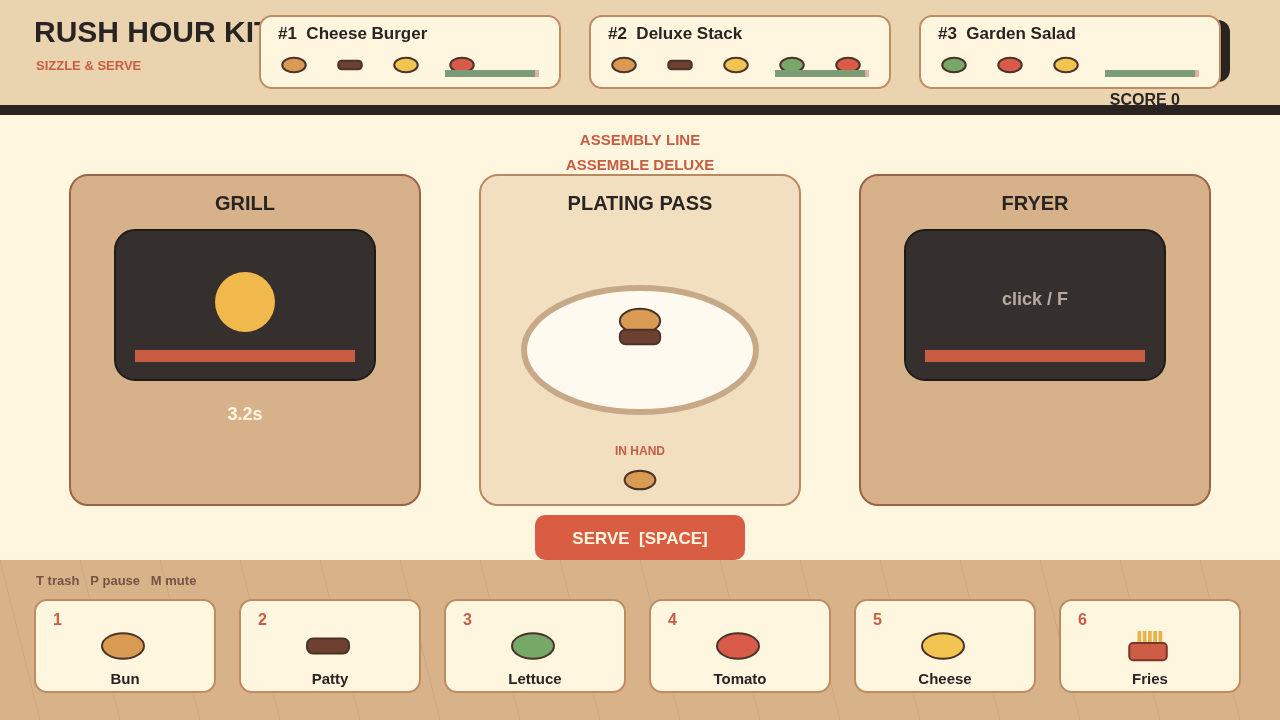
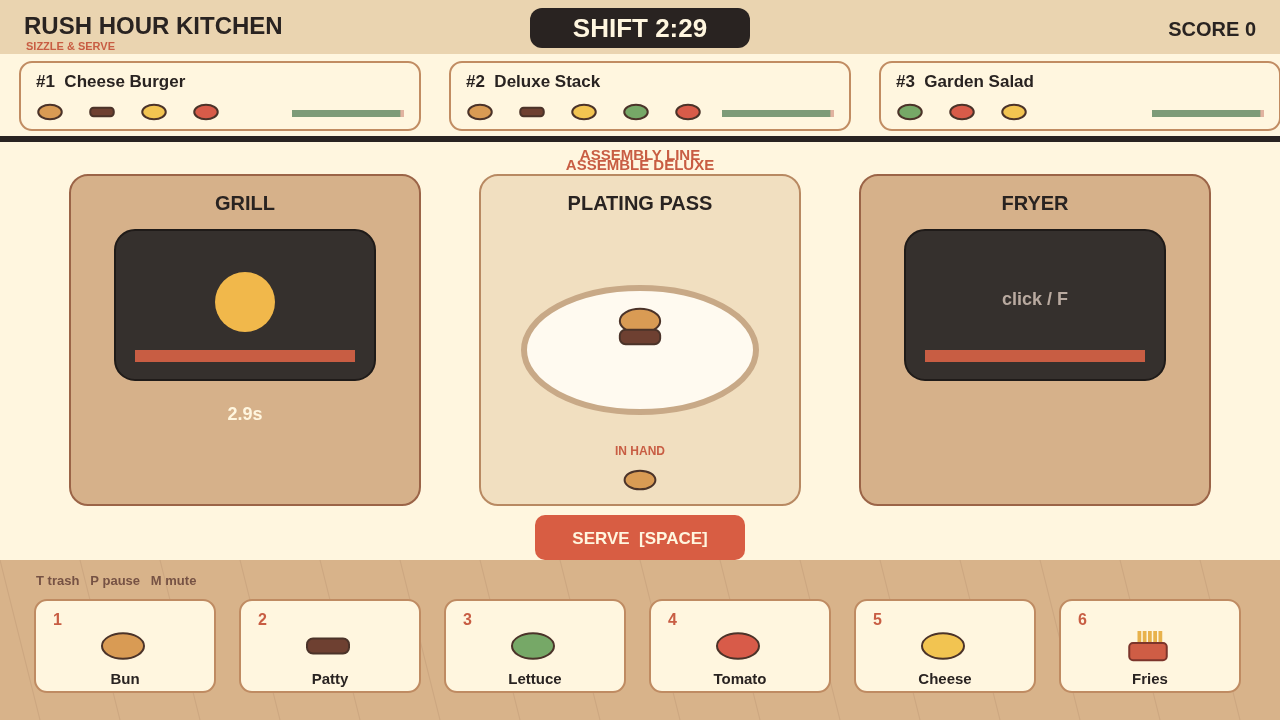
Fix header layout: title, shift timer and score above order board

Changed region(s): [[0.0, 0.0, 1.0, 0.2444]]

diff --git a/game/src/render.js b/game/src/render.js
@@ -2,8 +2,8 @@ import {COLORS,INGREDIENTS} from './config.js';
 function rr(c,x,y,w,h,r,fill,stroke){c.beginPath();c.roundRect(x,y,w,h,r);if(fill){c.fillStyle=fill;c.fill()}if(stroke){c.strokeStyle=stroke;c.lineWidth=2;c.stroke()}}
 function text(c,s,x,y,size=18,color=COLORS.charcoal,weight='600',align='left'){c.font=`${weight} ${size}px Arial`;c.fillStyle=color;c.textAlign=align;c.fillText(s,x,y)}
 function ingredient(c,name,x,y,scale=1){const col={Bun:'#d99b54',Patty:'#6e4031',Lettuce:'#76a867',Tomato:'#d85b49',Cheese:'#f2c451',Fries:'#e8b24c'}[name.replace('Grilled ','')]||'#ddd';c.fillStyle=col;c.strokeStyle='#4b3329';c.lineWidth=2;if(name.includes('Patty'))rr(c,x-28*scale,y-10*scale,56*scale,20*scale,8*scale,col,'#4b3329');else if(name==='Fries'){for(let i=-2;i<=2;i++)c.fillRect(x+i*7*scale,y-20*scale,5*scale,30*scale);rr(c,x-25*scale,y-4*scale,50*scale,23*scale,5*scale,'#cf5d45','#7c352b')}else{c.beginPath();c.ellipse(x,y,28*scale,17*scale,0,0,Math.PI*2);c.fill();c.stroke()}}
-export function render(c,w){c.save();c.clearRect(0,0,1280,720);c.fillStyle=COLORS.cream;c.fillRect(0,0,1280,720);c.fillStyle='#ead4b0';c.fillRect(0,0,1280,105);c.fillStyle=COLORS.charcoal;c.fillRect(0,105,1280,10);c.fillStyle='#d8b38a';c.fillRect(0,560,1280,160);for(let x=0;x<1280;x+=80){c.strokeStyle='rgba(100,60,40,.1)';c.beginPath();c.moveTo(x,560);c.lineTo(x+40,720);c.stroke()}drawBoard(c,w);drawKitchen(c,w);if(w.screen==='title')screenTitle(c);if(w.screen==='win'||w.screen==='lose')screenEnd(c,w);if(w.paused){c.fillStyle='rgba(41,35,33,.75)';c.fillRect(0,0,1280,720);text(c,'PAUSED',640,355,52,COLORS.cream,'800','center');text(c,'Press P to return to service',640,395,20,COLORS.paper,'600','center')}c.restore()}
-function drawBoard(c,w){text(c,'RUSH HOUR KITCHEN',34,42,30,COLORS.charcoal,'800');text(c,'SIZZLE & SERVE',36,70,13,COLORS.terracotta,'800');rr(c,930,20,300,62,12,COLORS.charcoal);text(c,`${Math.ceil(w.time)}s`,1080,60,32,COLORS.cream,'800','center');text(c,`SCORE ${w.score}`,1180,105,16,COLORS.charcoal,'800','right');for(let i=0;i<3;i++){const x=260+i*330,o=w.orders[i];rr(c,x,16,300,72,12,o?COLORS.cream:'#d5c6aa','#c18c62');if(!o){text(c,'OPEN COUNTER',x+18,49,16,'#8f8170','700');continue}text(c,`#${i+1}  ${o.recipe.name}`,x+18,39,17,COLORS.charcoal,'800');o.recipe.items.forEach((it,j)=>ingredient(c,it,x+34+j*56,65,.42));c.fillStyle='#e1b3a0';c.fillRect(x+185,70,94,7);c.fillStyle=o.age>20?COLORS.red:COLORS.sage;c.fillRect(x+185,70,94*Math.max(0,1-o.age/34),7)}}
-function drawKitchen(c,w){text(c,'ASSEMBLY LINE',640,145,15,COLORS.terracotta,'800','center');rr(c,70,175,350,330,18,'#d6b18a','#9b6447');rr(c,860,175,350,330,18,'#d6b18a','#9b6447');text(c,'GRILL',245,210,20,COLORS.charcoal,'800','center');text(c,'FRYER',1035,210,20,COLORS.charcoal,'800','center');rr(c,115,230,260,150,20,'#35302d','#1f1b19');rr(c,905,230,260,150,20,'#35302d','#1f1b19');c.fillStyle='#c85d43';c.fillRect(135,350,220,12);c.fillRect(925,350,220,12);if(w.grill){c.fillStyle='#f1b84b';c.beginPath();c.arc(245,302,30,0,Math.PI*2);c.fill();text(c,w.grill.status==='burnt'?'BURN!':`${Math.min(6,w.grill.t).toFixed(1)}s`,245,420,18,w.grill.status==='burnt'?COLORS.red:COLORS.cream,'800','center')}else text(c,'click / G',245,305,18,'#b9aaa0','700','center');if(w.fryer){ingredient(c,'Fries',1035,300,.9);text(c,w.fryer.status==='burnt'?'BURN!':`${Math.min(6,w.fryer.t).toFixed(1)}s`,1035,420,18,w.fryer.status==='burnt'?COLORS.red:COLORS.cream,'800','center')}else text(c,'click / F',1035,305,18,'#b9aaa0','700','center');rr(c,480,175,320,330,18,'#f1dfc0','#b88962');text(c,'PLATING PASS',640,210,20,COLORS.charcoal,'800','center');c.fillStyle='#fffaf0';c.beginPath();c.ellipse(640,350,116,62,0,0,Math.PI*2);c.fill();c.strokeStyle='#c8a987';c.lineWidth=6;c.stroke();w.plate.forEach((it,i)=>ingredient(c,it,640,345+(i-1.5)*16,.72));if(w.held){text(c,'IN HAND',640,455,12,COLORS.terracotta,'800','center');ingredient(c,w.held,640,480,.55)}rr(c,535,515,210,45,10,w.plate.length?'#d85d43':'#bca68c');text(c,'SERVE  [SPACE]',640,544,17,'#fff6df','800','center');if(w.flash){text(c,w.flash,640,170,15,COLORS.terracotta,'800','center')}for(let i=0;i<6;i++){const x=35+i*205;rr(c,x,600,180,92,12,COLORS.cream,'#bf8b62');text(c,`${i+1}`,x+18,625,16,COLORS.terracotta,'800');ingredient(c,INGREDIENTS[i],x+88,646,.75);text(c,INGREDIENTS[i],x+90,684,15,COLORS.charcoal,'700','center')}text(c,'T trash   P pause   M mute',36,585,13,'#765244','700')}
-function screenTitle(c){c.fillStyle='rgba(41,35,33,.84)';c.fillRect(0,115,1280,445);text(c,'RUSH HOUR KITCHEN',640,255,62,COLORS.cream,'800','center');text(c,'SIZZLE & SERVE',640,298,24,COLORS.gold,'800','center');text(c,'Three tickets. One hot line. Make every second count.',640,350,20,COLORS.paper,'600','center');rr(c,520,390,240,62,14,COLORS.terracotta);text(c,'START SHIFT',640,430,22,'#fff6df','800','center');text(c,'Click to start  •  1–6 grab ingredients  •  G/F cook  •  Space serve',640,500,16,COLORS.paper,'600','center')}
+export function render(c,w){c.save();c.clearRect(0,0,1280,720);c.fillStyle=COLORS.cream;c.fillRect(0,0,1280,720);c.fillStyle='#ead4b0';c.fillRect(0,0,1280,54);c.fillStyle='#d8b38a';c.fillRect(0,560,1280,160);for(let x=0;x<1280;x+=80){c.strokeStyle='rgba(100,60,40,.1)';c.beginPath();c.moveTo(x,560);c.lineTo(x+40,720);c.stroke()}drawBoard(c,w);drawKitchen(c,w);if(w.screen==='title')screenTitle(c);if(w.screen==='win'||w.screen==='lose')screenEnd(c,w);if(w.paused){c.fillStyle='rgba(41,35,33,.75)';c.fillRect(0,0,1280,720);text(c,'PAUSED',640,355,52,COLORS.cream,'800','center');text(c,'Press P to return to service',640,395,20,COLORS.paper,'600','center')}c.restore()}
+function drawBoard(c,w){text(c,'RUSH HOUR KITCHEN',24,34,24,COLORS.charcoal,'800');text(c,'SIZZLE & SERVE',26,50,11,COLORS.terracotta,'800');rr(c,530,8,220,40,12,COLORS.charcoal);const remaining=Math.max(0,Math.ceil(w.time));const minutes=Math.floor(remaining/60);const seconds=remaining%60;text(c,`SHIFT ${minutes}:${String(seconds).padStart(2,'0')}`,640,37,26,COLORS.cream,'800','center');text(c,`SCORE ${w.score}`,1256,36,20,COLORS.charcoal,'800','right');for(let i=0;i<3;i++){const x=20+i*430,o=w.orders[i];rr(c,x,62,400,68,12,o?COLORS.cream:'#d5c6aa','#c18c62');if(!o){text(c,'OPEN COUNTER',x+200,102,16,'#8f8170','700','center');continue}text(c,`#${i+1}  ${o.recipe.name}`,x+16,87,17,COLORS.charcoal,'800');o.recipe.items.forEach((it,j)=>ingredient(c,it,x+30+j*52,112,.42));c.fillStyle='#e1b3a0';c.fillRect(x+272,110,112,7);c.fillStyle=o.age>20?COLORS.red:COLORS.sage;c.fillRect(x+272,110,112*Math.max(0,1-o.age/34),7)}c.fillStyle=COLORS.charcoal;c.fillRect(0,136,1280,6)}
+function drawKitchen(c,w){text(c,'ASSEMBLY LINE',640,160,15,COLORS.terracotta,'800','center');rr(c,70,175,350,330,18,'#d6b18a','#9b6447');rr(c,860,175,350,330,18,'#d6b18a','#9b6447');text(c,'GRILL',245,210,20,COLORS.charcoal,'800','center');text(c,'FRYER',1035,210,20,COLORS.charcoal,'800','center');rr(c,115,230,260,150,20,'#35302d','#1f1b19');rr(c,905,230,260,150,20,'#35302d','#1f1b19');c.fillStyle='#c85d43';c.fillRect(135,350,220,12);c.fillRect(925,350,220,12);if(w.grill){c.fillStyle='#f1b84b';c.beginPath();c.arc(245,302,30,0,Math.PI*2);c.fill();text(c,w.grill.status==='burnt'?'BURN!':`${Math.min(6,w.grill.t).toFixed(1)}s`,245,420,18,w.grill.status==='burnt'?COLORS.red:COLORS.cream,'800','center')}else text(c,'click / G',245,305,18,'#b9aaa0','700','center');if(w.fryer){ingredient(c,'Fries',1035,300,.9);text(c,w.fryer.status==='burnt'?'BURN!':`${Math.min(6,w.fryer.t).toFixed(1)}s`,1035,420,18,w.fryer.status==='burnt'?COLORS.red:COLORS.cream,'800','center')}else text(c,'click / F',1035,305,18,'#b9aaa0','700','center');rr(c,480,175,320,330,18,'#f1dfc0','#b88962');text(c,'PLATING PASS',640,210,20,COLORS.charcoal,'800','center');c.fillStyle='#fffaf0';c.beginPath();c.ellipse(640,350,116,62,0,0,Math.PI*2);c.fill();c.strokeStyle='#c8a987';c.lineWidth=6;c.stroke();w.plate.forEach((it,i)=>ingredient(c,it,640,345+(i-1.5)*16,.72));if(w.held){text(c,'IN HAND',640,455,12,COLORS.terracotta,'800','center');ingredient(c,w.held,640,480,.55)}rr(c,535,515,210,45,10,w.plate.length?'#d85d43':'#bca68c');text(c,'SERVE  [SPACE]',640,544,17,'#fff6df','800','center');if(w.flash){text(c,w.flash,640,170,15,COLORS.terracotta,'800','center')}for(let i=0;i<6;i++){const x=35+i*205;rr(c,x,600,180,92,12,COLORS.cream,'#bf8b62');text(c,`${i+1}`,x+18,625,16,COLORS.terracotta,'800');ingredient(c,INGREDIENTS[i],x+88,646,.75);text(c,INGREDIENTS[i],x+90,684,15,COLORS.charcoal,'700','center')}text(c,'T trash   P pause   M mute',36,585,13,'#765244','700')}
+function screenTitle(c){c.fillStyle='rgba(41,35,33,.84)';c.fillRect(0,54,1280,506);text(c,'RUSH HOUR KITCHEN',640,255,62,COLORS.cream,'800','center');text(c,'SIZZLE & SERVE',640,298,24,COLORS.gold,'800','center');text(c,'Three tickets. One hot line. Make every second count.',640,350,20,COLORS.paper,'600','center');rr(c,520,390,240,62,14,COLORS.terracotta);text(c,'START SHIFT',640,430,22,'#fff6df','800','center');text(c,'Click to start  •  1–6 grab ingredients  •  G/F cook  •  Space serve',640,500,16,COLORS.paper,'600','center')}
 function screenEnd(c,w){c.fillStyle='rgba(41,35,33,.9)';c.fillRect(250,145,780,430);text(c,w.screen==='win'?'SERVICE COMPLETE':'KITCHEN CLOSED',640,250,52,w.screen==='win'?COLORS.gold:'#f0b5a1','800','center');text(c,w.screen==='win'?'You hit the rush target!':'The rush got away this time.',640,295,22,COLORS.cream,'600','center');text(c,`FINAL SCORE  ${w.score}`,640,360,34,COLORS.cream,'800','center');text(c,`Dishes served ${w.served}   Best combo ${w.best}   Orders missed ${w.missed}`,640,405,18,COLORS.paper,'600','center');rr(c,520,455,240,58,12,COLORS.terracotta);text(c,'RESTART  [R]',640,493,21,'#fff6df','800','center')}
